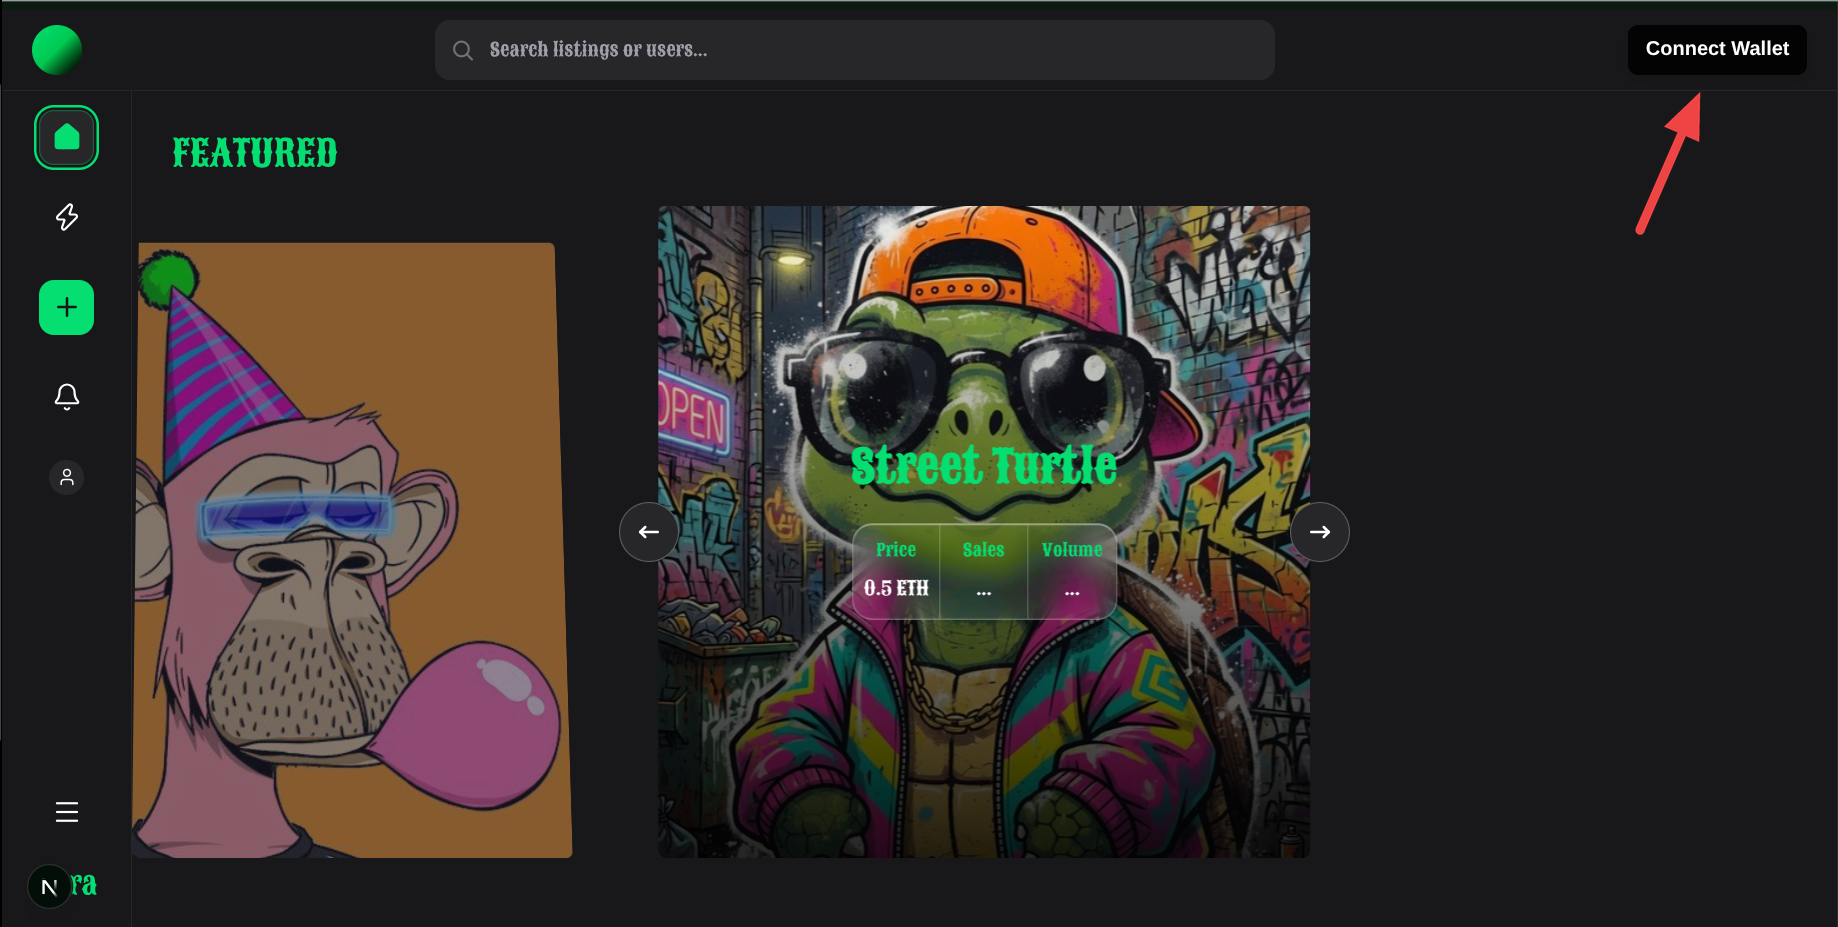
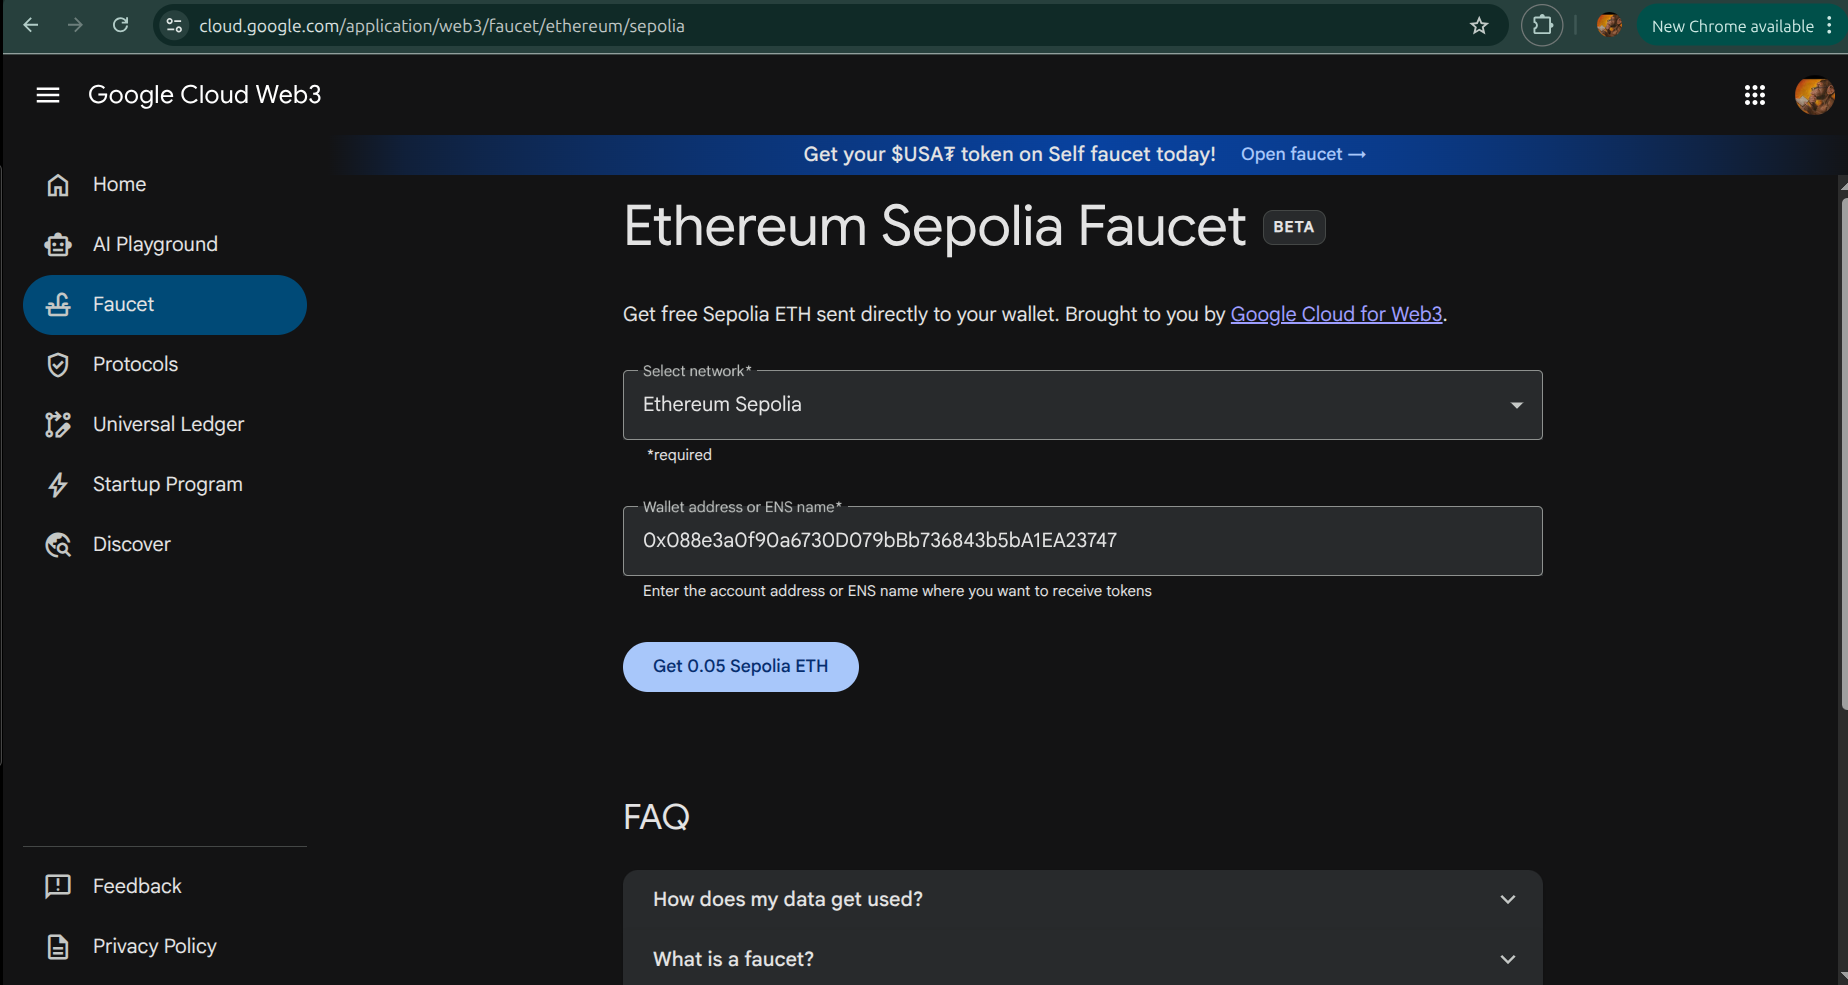
Section changes

diff --git a/app/page.tsx b/app/page.tsx
@@ -218,18 +218,18 @@ function PreviewCard({
 const WALLET_PLACEHOLDER_ITEMS: PreviewCardItem[] = [
   {
     id: "wallet-1",
-    title: "Connect a wallet",
+    title: "Get Sepolia ETH",
     description:
-      "Create an EVM decentralized wallet such as MetaMask, Coinbase etc. Set up a new wallet and keep the recovery phrase safe.",
+      "Go to Google web3 faucet and fund you account you wish to use with sepolia ETH.",
     imageSrc: "/connect_step1.png",
     imageAlt: null,
     href: "#",
   },
   {
     id: "wallet-2",
-    title: "Create your account",
+    title: "Connect a wallet/create account",
     description:
-      "Sign in using wallet and create your account. After signUp fund wallet with Sepolia ETH.",
+      "Connect an existing wallet or set up a new wallet and keep the recovery phrase safe. Sign in using wallet and create your account.",
     imageSrc: "/connect_step2.png",
     imageAlt: null,
     href: "#",
@@ -276,24 +276,24 @@ const SELL_PLACEHOLDER_ITEMS: PreviewCardItem[] = [
   {
     id: "sell-1",
     title: "Create your NFT",
-    description: "Click the post icons on your sidebar menu. Make sure account is funded!.",
+    description: "Click the create button in the menu sidebar. Then fill in your NFT details and initiate the transaction.",
     imageSrc: "/create&sell_step1.png",
     imageAlt: null,
     href: "#",
   },
   {
     id: "sell-2",
-    title: "Set a price",
-    description: "Upload the picture for your NFT, fill in a price and add a phrase(something that can be easy to search).",
-    imageSrc: null,
+    title: "Warning error",
+    description: "You may get some warning errors such as the ones in the image. Don't worry it's mainly cause the site is on free deployment.",
+    imageSrc: "create&sell_step2.png",
     imageAlt: null,
     href: "#",
   },
   {
     id: "sell-3",
     title: "List it for sale",
-    description: "When done you create the NFT first then list it after. You can decide to list on Featured which costs more but displays your NFT on the featured page.",
-    imageSrc: null,
+    description: "When done with creating the NFT you then list it. You can decide to list on Featured section alone which lasts for 30 days or you can list normally.",
+    imageSrc: "create&sell_step3.png",
     imageAlt: null,
     href: "#",
   },
